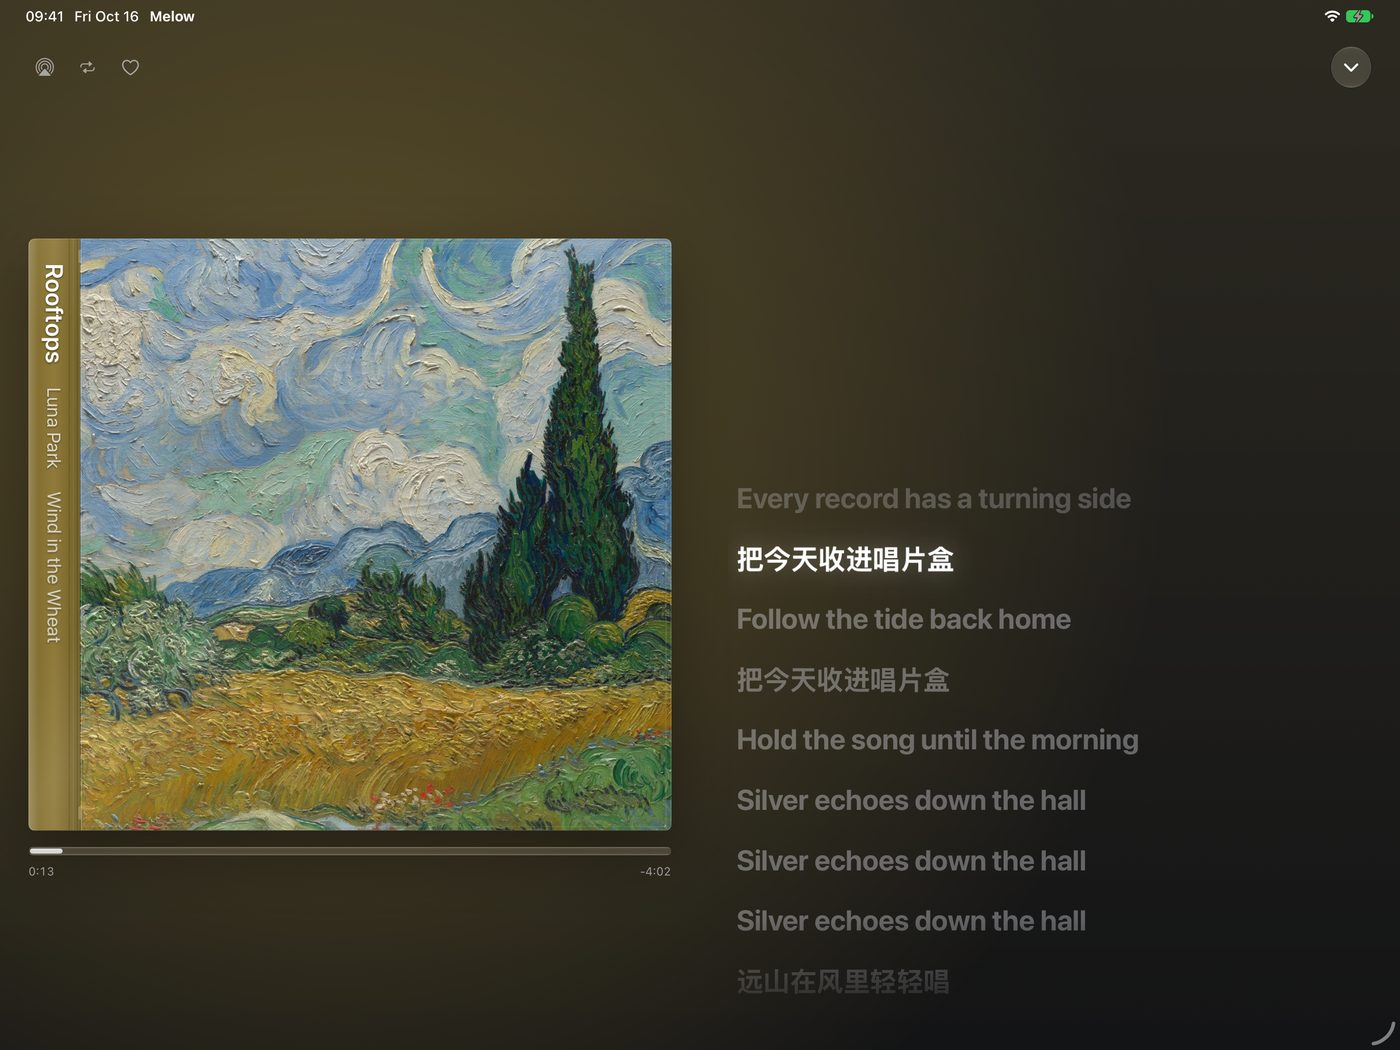
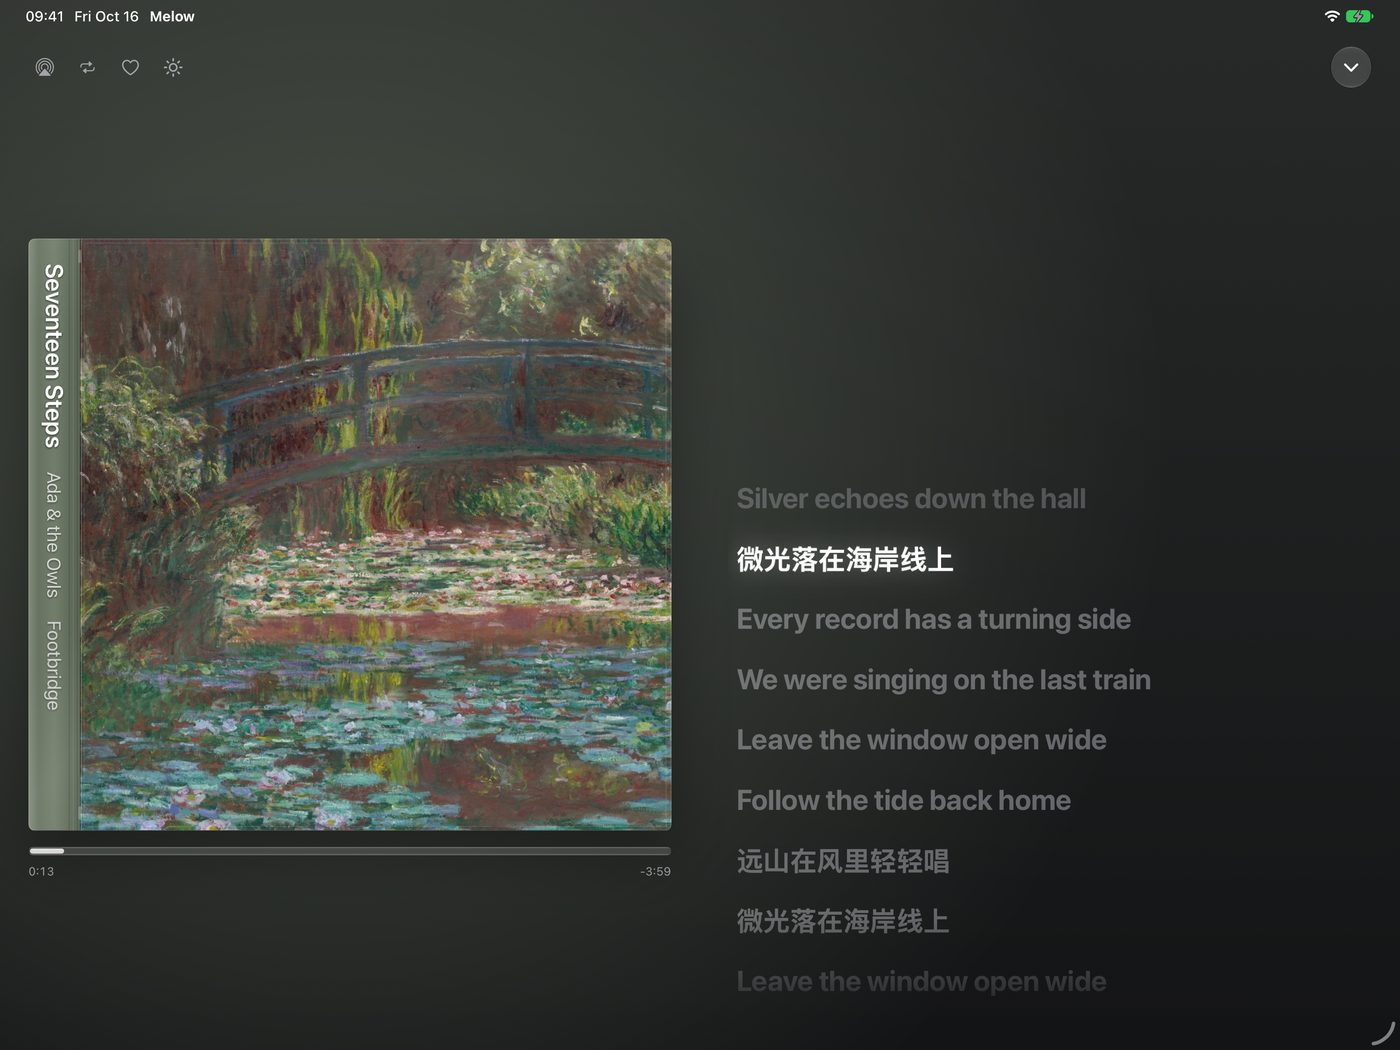
Keep the display on, on the home page
A new section, Leave it playing, shows the player on a sideways iPhone
the moment the sun is tapped, with its note, and says what it does. The
iPhone and iPad player pictures are retaken so the sun is in their
header, as it is in the app.

diff --git a/index.html b/index.html
@@ -124,7 +124,7 @@
       <div class="pair">
         <figure>
           <img class="shot tablet" src="media/ipad-player.jpg" width="1400" height="1050" loading="lazy"
-               alt="The player on an iPad held sideways: the jewel case with its title down the spine on the left, and lyrics on the right with the current line lit.">
+               alt="The player on an iPad held sideways: the jewel case, its cover Monet's Water Lily Pond, with the song's title down the spine on the left, and lyrics on the right with the current line lit.">
           <figcaption>iPad: the record beside its lyrics</figcaption>
         </figure>
         <figure>
@@ -133,6 +133,19 @@
           <figcaption>iPad: the album flow</figcaption>
         </figure>
       </div>
+    </section>
+
+    <section class="showcase" id="awake">
+      <p class="eyebrow glass">Leave it playing</p>
+      <h2>Set it on a stand. The screen stays on.</h2>
+      <div class="prose">
+        <p>Tap the sun at the top of the player and your iPhone or iPad stays awake while the record plays, so the cover and its lyrics keep showing on a desk, a nightstand or a kitchen counter. It's off until you want it, and the screen sleeps as usual again once you close the player.</p>
+      </div>
+      <figure class="solo">
+        <img class="shot wide-phone" src="media/sideways-awake.jpg" width="1400" height="644" loading="lazy"
+             alt="The player on a sideways iPhone: the sun at the top is lit, and a note in glass says Display stays on in the player, over the record, its cover Hokusai's Red Fuji, and its lyrics.">
+        <figcaption>One tap on the sun keeps the display on</figcaption>
+      </figure>
     </section>
 
     <section class="showcase" id="mac">

diff --git a/style.css b/style.css
@@ -473,6 +473,7 @@ figcaption { margin-top: 14px; text-align: center; color: var(--ink-faint); font
   .duo-phones { grid-auto-flow: row; grid-template-columns: repeat(2, minmax(0, 300px)); justify-content: center; overflow: visible; gap: 40px; }
 }
 
+.solo { max-width: 900px; margin: 0 auto; }
 .mac-hero { max-width: 1000px; margin: 0 auto 26px; }
 .macs { margin-top: 6px; }
 
